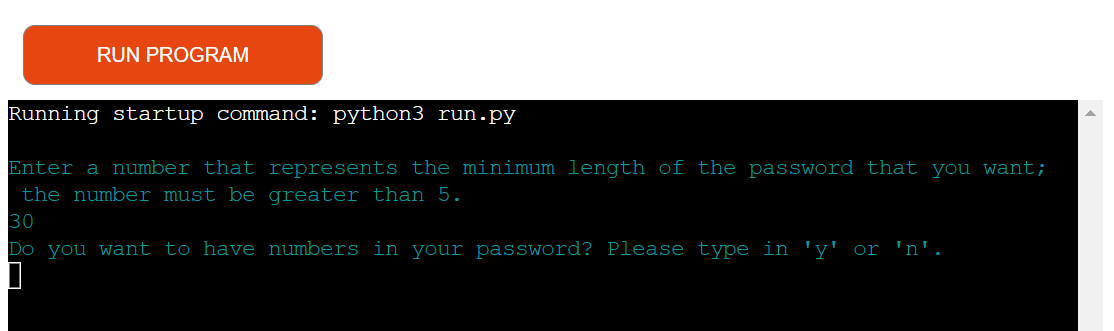
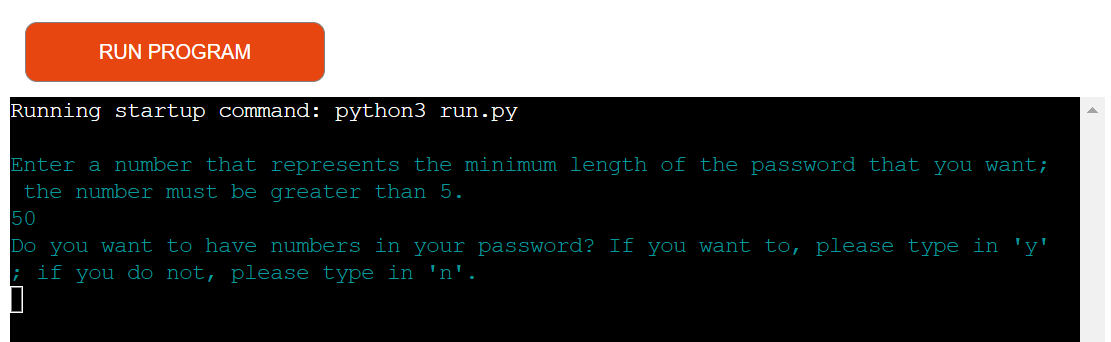
docs: add the remaining part of existing features, future features, typography & color scheme, and flowcharts sections to the readme.md file

Changed region(s): [[0.0, 0.0604, 1.0, 1.0]]

diff --git a/README.md b/README.md
@@ -27,12 +27,42 @@
 ![First input statement 4](readme-images/first-input-statement-4.png)
 
 ## 2. 2. Second Input Statement
-+ As soons as a user has entered a number that is greater than 5, the second, cyan input statement will be displayed, which asks them to specify if they want to have numbers in their password by typing in either 'y' or 'n'.
++ As soons as a user has entered a number that is greater than 5, the second, cyan input statement will be displayed, which asks them to specify if they want to have numbers in their password; if they want to, they must enter a 'y' and if they do not, they must enter an 'n'.
 + If a user entered neither 'y' nor 'n', an error, red message will appear and inform them that they entered neither 'y' nor 'n'; immediately afterwards, the second input statement will be one more time demonstrated reminding a user that they must enter either 'y' or 'n'.
 + As soon as a user has entered a 'y' or 'n', the third input statement will come into view.
 + Please consider the image below, which illutstrates all the scenarios above.
 
 ![Second input statement](readme-images/second-input-statement.png)
 
-## 2. 3. Third Input Statement
-+ Once a user has entered a 'y' or an 'n' as their answer to the second input statement, the third input statement will emerge requesting from them to explain whether they want to have special characters in their password by typing in a 'y' or an 'n'.
+## 2. 3. Third Input Statement & Password Generation
++ Once a user has entered a 'y' or an 'n' as their answer to the second input statement, the third input statement will emerge requesting an explanation as to whether they want to have special characters in their password; if they want to, they must enter a 'y' and if they do not, they must enter an 'n'.
++ If a user entered neither 'y' nor 'n', an error, red message will appear and inform them that they entered neither 'y' nor 'n'; immediately afterwards, the second input statement will be one more time demonstrated reminding a user that they must enter either a 'y' or an 'n'.
++ When a user has entered a 'y' or an 'n', a green message will arise, which is: "Your requested password is:" and the requested password will be revealed in a new line in yellow.
++ Beneath is a relevant image.
+
+![Third input statement & password generation](readme-images/third-input-statement.png)
+
+# 3. Future Features
++ I would develop an option in which a user could single out how difficult a password should be.
++ If I could, I would incorporate the letters, numbers, and special characters of many languages in addition to English.
++ Ordering several passwords simultaneously from the very start of the programme.
+
+# 4. Typography & Color Scheme
++ I utilized the typography that is incorporated in Heroku.
++ As for the color scheme of the programme, I imported "colorama", installed it into my Codeanywhere's workspace, and added it into the requirements.txt file so that Heroku can execute the color settings of "colorama" on the "create-your-password" programme.
++ The input statements questions and a user's answers are in cyan.
++ The error messages are in red.
++ The "Your requested password is:" message is in green.
++ The message that reveals the requested password is in yellow.
++ Kindly check the image down below that shows the color scheme of the programme.
+
+![Color scheme](readme-images/color-scheme.png)
+
+# 5. Flowcharts
++ Underneath is the flowchart of "create-your-password" programme.
+
+![Flowchart](readme-images/flowchart.png)
+
+
+
+
